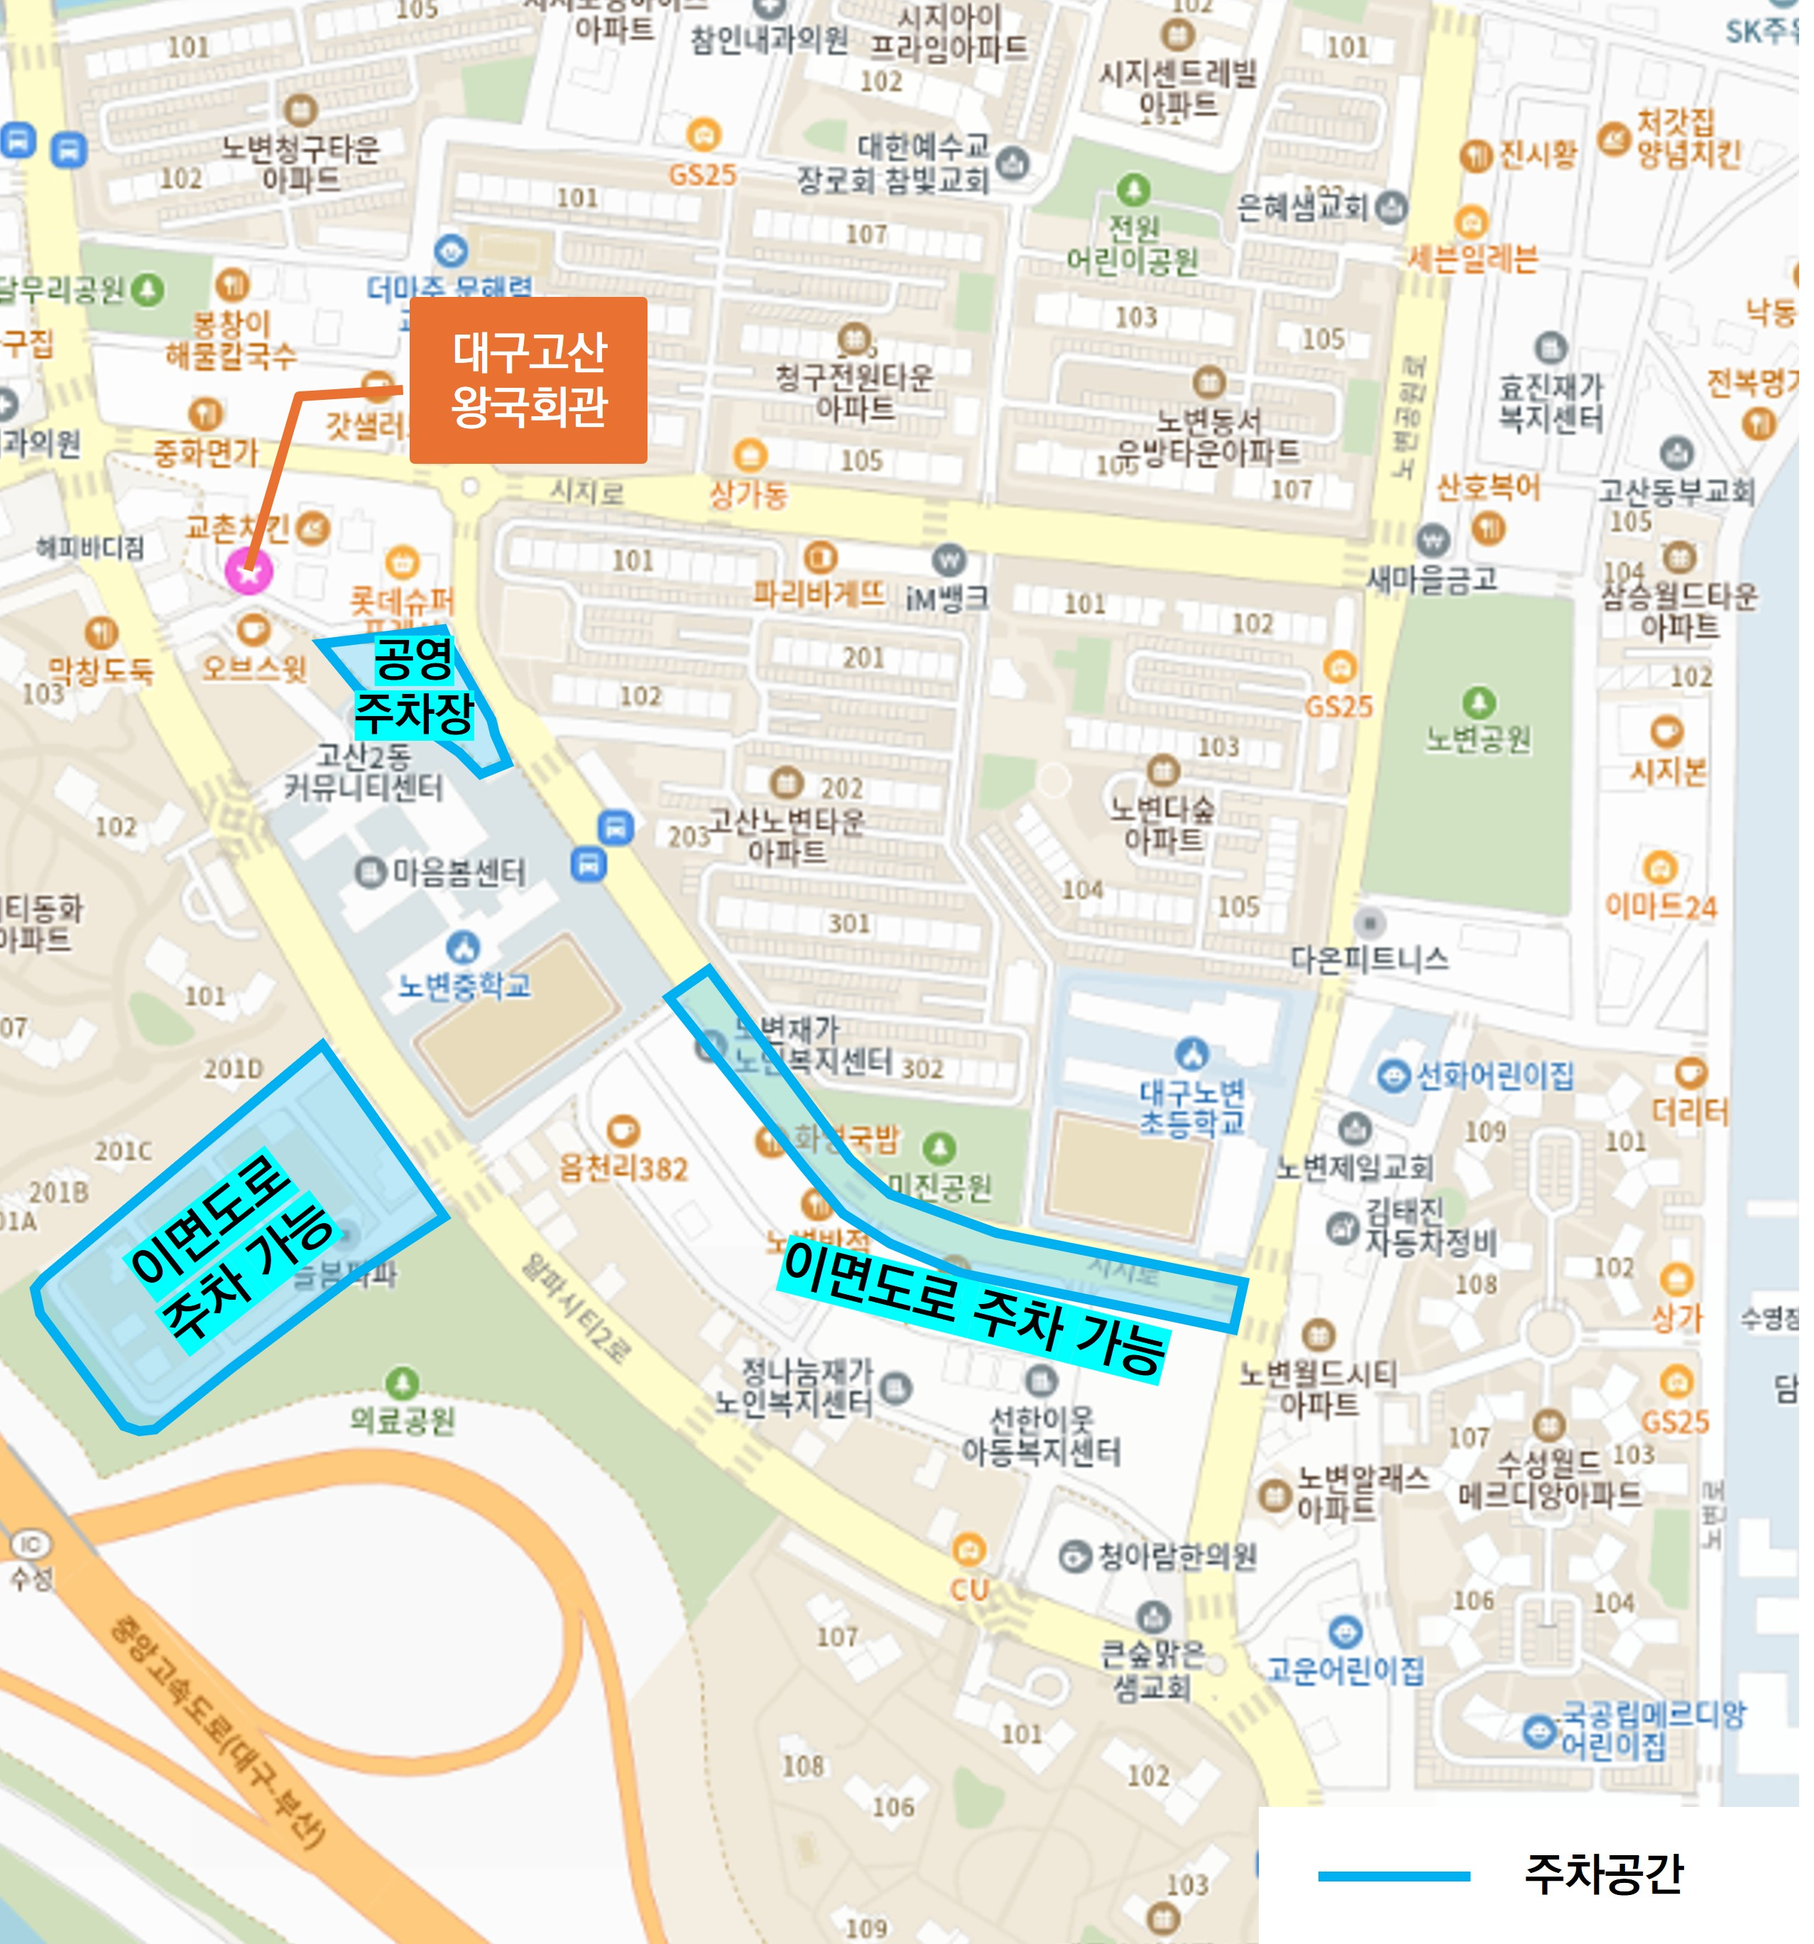
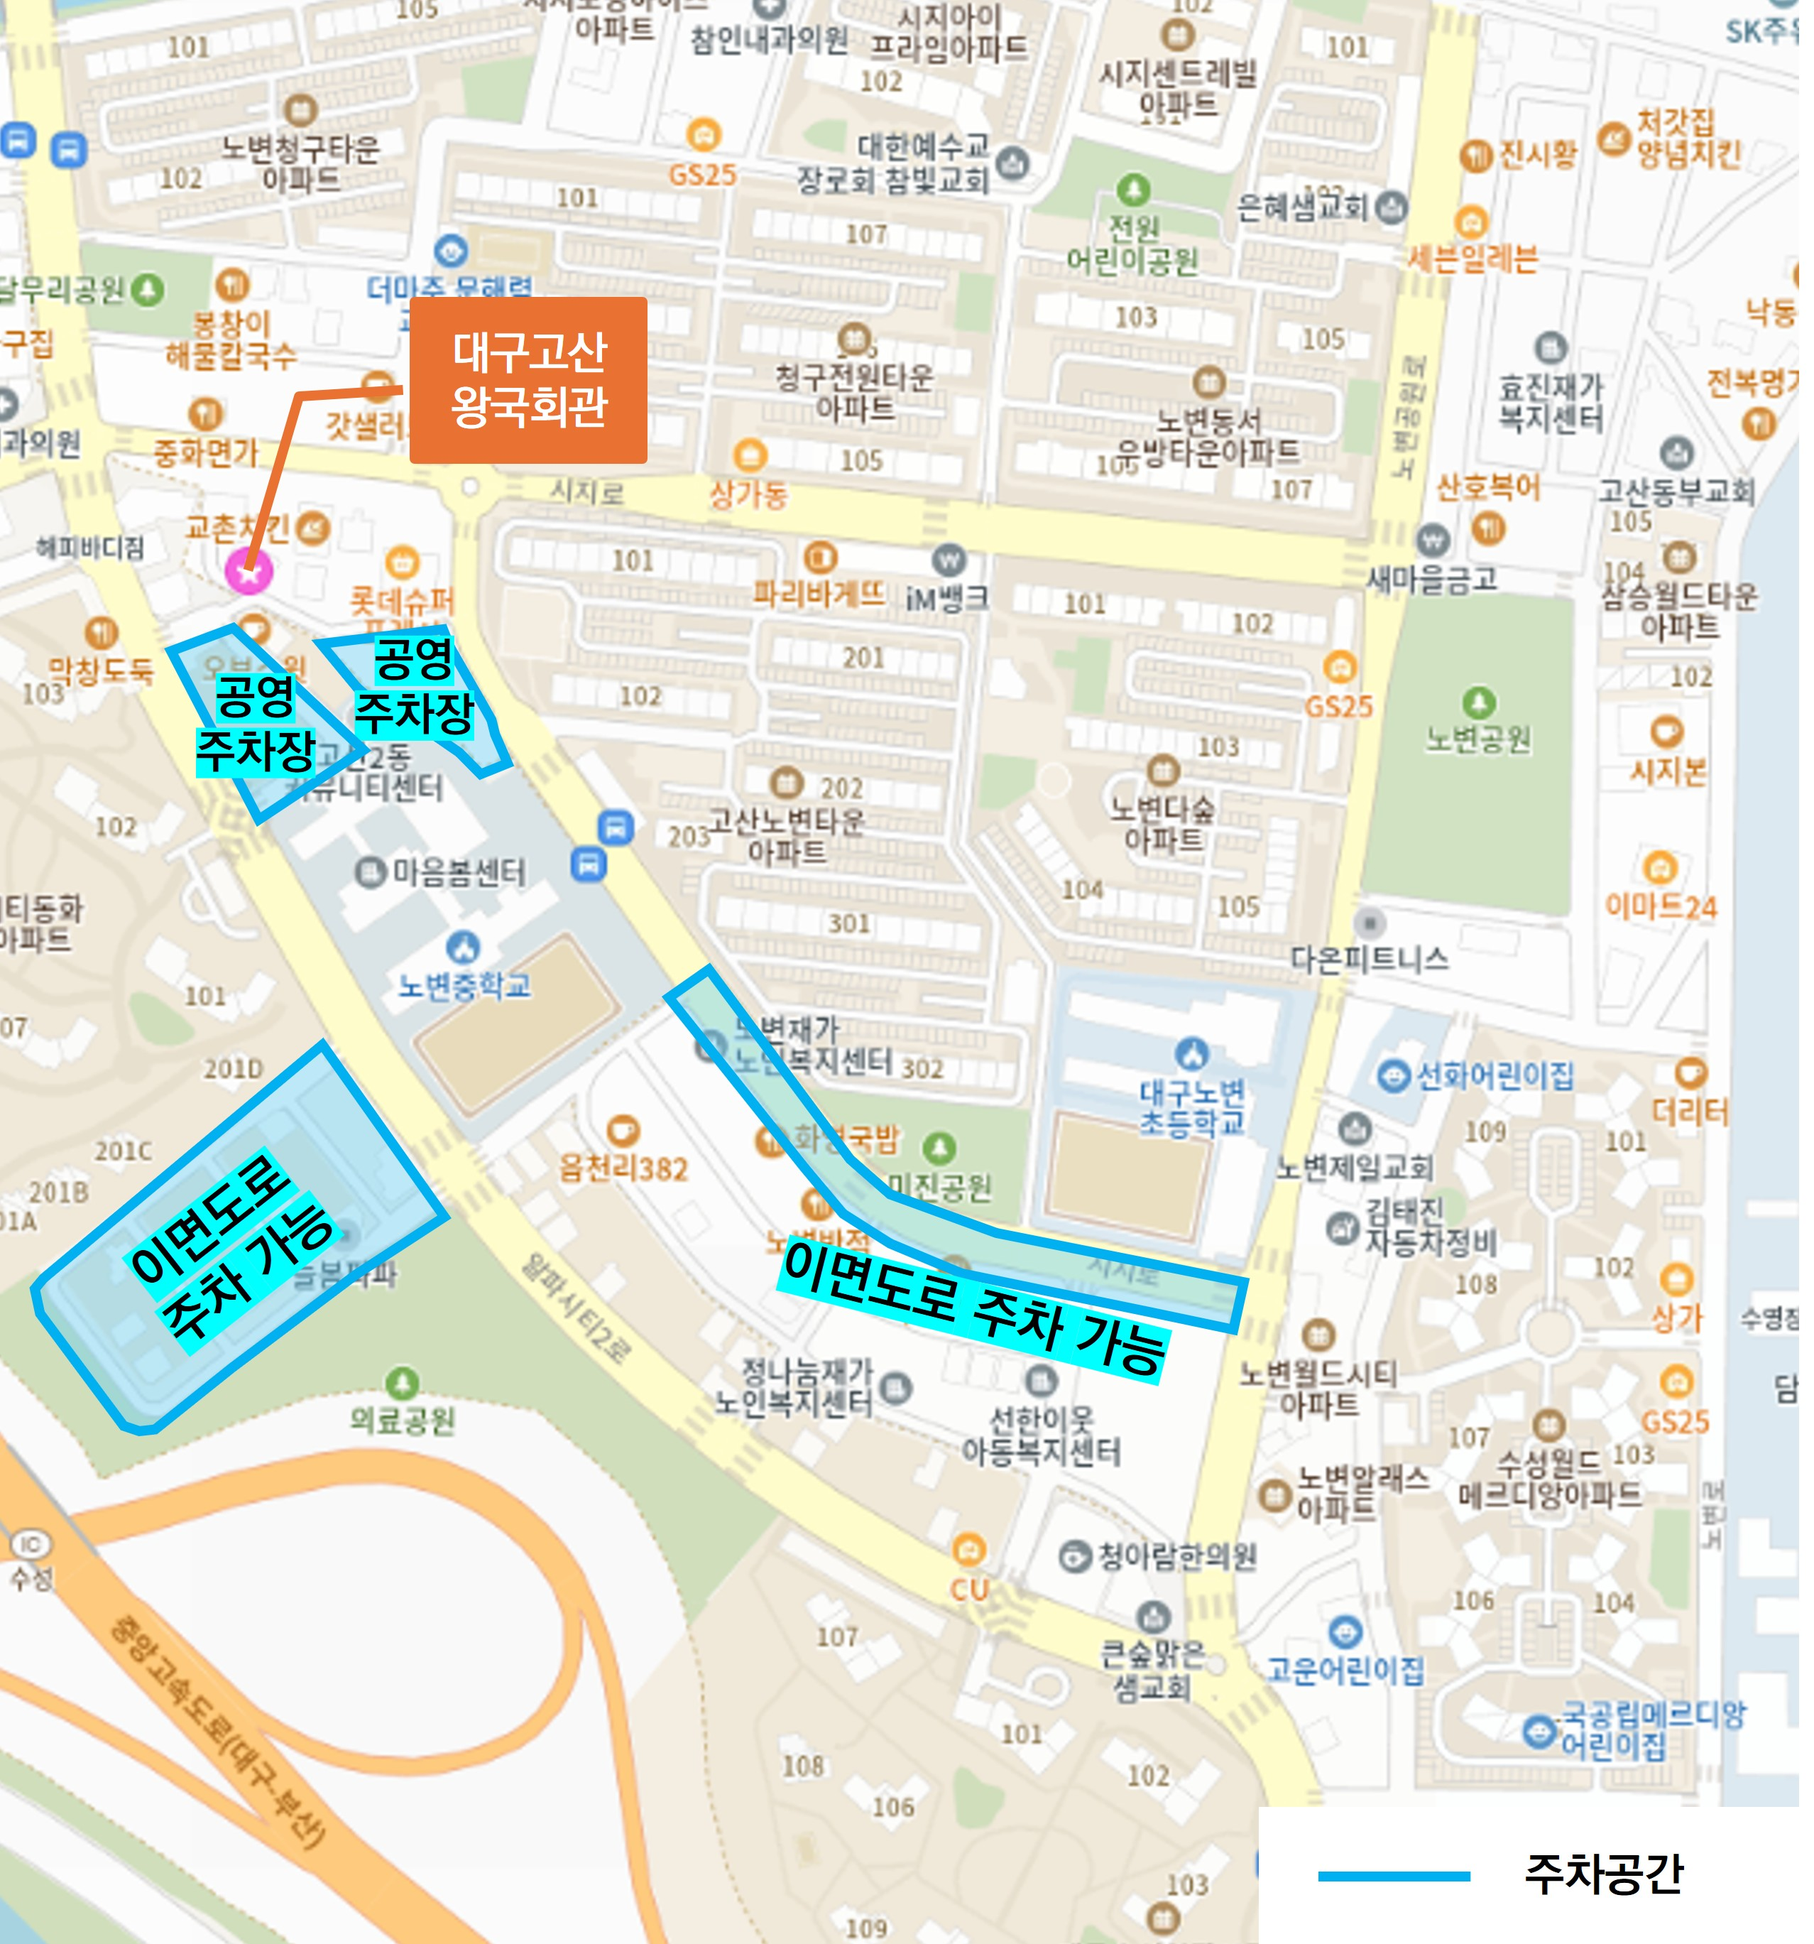
계좌

Changed region(s): [[0.0928, 0.3106, 0.2164, 0.4348]]

diff --git a/wedding-invitation/my-wedding_Z/index.html b/wedding-invitation/my-wedding_Z/index.html
@@ -127,12 +127,6 @@ section{padding:86px 22px;position:relative;text-align:center}
 .zoom-btn:active{opacity:0.7}
 .zoom-btn i{margin-right:6px;font-size:16px;}
 
-/* accounts */
-.account-card{background:#fff;border:1px solid var(--line);padding:4px 18px}
-.account-group{border-bottom:1px solid var(--line)}.account-group:last-child{border-bottom:0}.account-title{display:flex;align-items:center;justify-content:space-between;padding:18px 0;cursor:pointer;font-size:12px;font-weight:600}.account-content{display:none;padding:0 0 12px}.account-content.open{display:block}.account-item{display:grid;grid-template-columns:1fr auto;gap:8px;align-items:center;background:var(--paper);padding:13px;margin-bottom:7px;font-size:10px}.account-person{font-weight:600;margin-right:7px}.account-number{color:#6c6760}.btn-acc{border:1px solid #d7d0c8;background:#fff;padding:8px 9px;font-size:9px;cursor:pointer}
-.account-phone {font-size:10px; color:#888; margin-top:4px;}
-.account-phone a {text-decoration:none; color:inherit; display:flex; align-items:center; gap:4px;}
-
 /* RSVP */
 #rsvp { background: #f8d8d8; padding-bottom: 115px; color: #5e4a4a; }
 #rsvp .section-kicker { color: #d89898; }
@@ -290,84 +284,6 @@ section{padding:86px 22px;position:relative;text-align:center}
             <div class="gallery-item"><img src="./img/21.jpg" alt="웨딩 사진 21"></div>
         </div>
     </section>
-<!-- 
-    예식장 Section (수정: 대중교통 정보 바로 배치)
-    <section class="reveal" id="location">
-        <div class="section-kicker">Ceremony</div>
-        <h2 class="section-title">Location</h2>
-        <div class="location-lead">
-            <div class="location-name">대구고산 왕국회관</div>
-            <div class="location-time">예식 13:30</div>
-            <div class="location-address">대구광역시 수성구 시지로 50-5</div>
-        </div>
-
-        <div class="map-shell reveal">
-            <div id="map" class="map"></div>
-            <div class="map-message" id="map-message">카카오 지도를 불러오는 중입니다.</div>
-            <div class="map-error" id="map-error"></div>
-        </div>
-        <div class="nav-buttons">
-            <a href="https://map.kakao.com/link/search/대구광역시 수성구 시지로 50-5" target="_blank" rel="noopener" class="map-kakao">카카오맵</a>
-            <a href="https://map.naver.com/v5/search/대구광역시 수성구 시지로 50-5" target="_blank" rel="noopener" class="map-naver">네이버지도</a>
-            <a href="tmap://search?name=대구광역시 수성구 시지로 50-5" class="map-tmap">티맵</a>
-        </div>
-        <button class="copy-btn" type="button" onclick="copyText('대구광역시 수성구 시지로 50-5')">주소 복사하기</button>
-
-        <div class="info-stack stagger visible">
-            <div class="info-card">
-                <div class="info-label">PUBLIC TRANSPORT</div>
-                <div class="info-title">대중교통</div>
-                <div class="info-text">지하철 2호선 신매역 2번 출구 · 도보 약 9분<br>고산2동행정복지센터 정류장 하차 · 도보 약 9분<br>100, 100-1, 309, 349, 399, 509, 724, 937, 990, 수성2, 급행10</div>
-            </div>
-        </div>
-    </section> -->
-
-    <!-- 연회장 Section (새로 추가)
-    <section class="reveal" id="reception">
-        <div class="section-kicker">Reception</div>
-        <h2 class="section-title">Dining <em>Hall</em></h2>
-        
-        <div class="info-stack stagger visible" style="margin-top:0; margin-bottom: 22px;">
-            <div class="info-card info-highlight">
-                <div class="info-label">RECEPTION / 식사</div>
-                <div class="info-title">채담은</div>
-                <div class="info-text">
-                    <span class="time-strong">11:30 ~ 13:30</span><br>
-                    대구 수성구 노변로 75-4<br>
-                    <b>※ 식당 이용시간이 예식장과 다르니 꼭 확인해주세요.</b><br>
-                    <span style="color:#8e625e">※ 축의대는 식당에 비치될 예정입니다.</span>
-                </div>
-            </div>
-        </div>
-
-        <div class="map-shell reveal">
-            <div id="map-restaurant" class="map"></div>
-            <div class="map-message" id="map-message-rest">카카오 지도를 불러오는 중입니다.</div>
-            <div class="map-error" id="map-error-rest"></div>
-        </div>
-        <div class="nav-buttons">
-            <a href="https://map.kakao.com/link/search/대구 수성구 노변로 75-4" target="_blank" rel="noopener" class="map-kakao">카카오맵</a>
-            <a href="https://map.naver.com/v5/search/대구 수성구 노변로 75-4" target="_blank" rel="noopener" class="map-naver">네이버지도</a>
-            <a href="tmap://search?name=대구 수성구 노변로 75-4" class="map-tmap">티맵</a>
-        </div>
-        <button class="copy-btn" type="button" onclick="copyText('대구 수성구 노변로 75-4')">주소 복사하기</button>
-    </section> -->
-
-    <!-- <section class="soft reveal" id="parking">
-        <div class="section-kicker">Parking</div>
-        <h2 class="section-title">Parking <em>Guide</em></h2>
-        <div class="info-card" style="text-align:left;padding:0;overflow:hidden">
-            <img class="parking-map" src="./img/parking-map.jpg" alt="주차 약도" onerror="this.style.display='none';this.nextElementSibling.style.display='flex'">
-            <div class="parking-placeholder" style="display:none">주차 약도 이미지를<br><b>./img/parking-map.jpg</b> 이름으로 넣어주세요.</div>
-            <div style="padding:18px 18px 6px">
-                <div class="info-label">PARKING INFORMATION</div>
-                <ul class="parking-list">
-                    <li><b>주차 위치</b> · 고산2동 커뮤니티센터 인근, 노변중학교/늘봄파파 인근, 아진공원 인근 등 약도를 참조해 주세요.</li>
-                    <li><b>TIP</b> · 예식장과 식당의 주차 위치가 다르다면 각각 구분해서 표시하는 것을 추천합니다.</li>
-                </ul>
-            </div>
-        </div>
-    </section> -->
 
     <!-- 줌(Zoom) 생중계 Section 추가 -->
     <section class="reveal" id="zoom">
@@ -390,93 +306,6 @@ section{padding:86px 22px;position:relative;text-align:center}
         </div>
     </section>
 
-    <!-- 계좌번호 Section (수정: 3명씩 각각 계좌 및 연락처 추가) -->
-    <section class="reveal" id="account">
-        <div class="section-kicker">With Love</div>
-        <h2 class="section-title">For Your <em>Heart</em></h2>
-        <div class="account-card">
-            <!-- 신랑측 계좌 -->
-            <div class="account-group">
-                <div class="account-title" onclick="toggleAccount('groom-acc',this)">신랑측 마음 전하실 곳 <i class="ri-add-line"></i></div>
-                <div class="account-content" id="groom-acc">
-                    <div class="account-item">
-                        <div>
-                            <span class="account-person">신랑 아버지 김재룡</span>
-                            <span class="account-number">은행명 000-0000-0000</span>
-                            <div class="account-phone"><a href="tel:010-0000-0000"><i class="ri-phone-line"></i> 010-0000-0000</a></div>
-                        </div>
-                        <button class="btn-acc" onclick="copyText('00000000000')">복사</button>
-                    </div>
-                    
-                    <div class="account-item">
-                        <div>
-                            <span class="account-person">신랑 김유락</span>
-                            <span class="account-number">농협 123-4567-8901</span>
-                            <div class="account-phone"><a href="tel:010-0000-0000"><i class="ri-phone-line"></i> 010-0000-0000</a></div>
-                        </div>
-                        <button class="btn-acc" onclick="copyText('12345678901')">복사</button>
-                    </div>
-                </div>
-            </div>
-            <!-- 신부측 계좌 -->
-            <div class="account-group">
-                <div class="account-title" onclick="toggleAccount('bride-acc',this)">신부측 마음 전하실 곳 <i class="ri-add-line"></i></div>
-                <div class="account-content" id="bride-acc">
-                    <div class="account-item">
-                        <div>
-                            <span class="account-person">신부 아버지 김성환</span>
-                            <span class="account-number">국민 010-3006-4259</span>
-                            <div class="account-phone"><a href="tel:010-3006-4259"><i class="ri-phone-line"></i> 010-3006-4259</a></div>
-                        </div>
-                        <button class="btn-acc" onclick="copyText('010-3006-4259')">복사</button>
-                    </div>
-                    <div class="account-item">
-                        
-                    <div class="account-item">
-                        <div>
-                            <span class="account-person">신부 김해빈</span>
-                            <span class="account-number">토스 1000-3364-5616</span>
-                            <div class="account-phone"><a href="tel:010-3386-4259"><i class="ri-phone-line"></i> 010-3386-4259</a></div>
-                        </div>
-                        <button class="btn-acc" onclick="copyText('1000-3364-5616')">복사</button>
-                    </div>
-                </div>
-            </div>
-        </div>
-    </section>
-
-    <!-- <section class="rsvp-section reveal" id="rsvp">
-        <div class="section-kicker">Please Reply</div>
-        <h2 class="section-title">R.S.V.P</h2>
-        <div class="rsvp-box">
-            <div class="rsvp-title">참석 의사를 알려주세요.</div>
-            <p>원활한 예식과 식사 준비를 위해<br>참석 여부를 미리 알려주시면 감사하겠습니다.</p>
-            <form class="rsvp-form" id="rsvpForm" onsubmit="submitRSVP(event)">
-                <input type="text" id="rsvp-name" name="name" placeholder="성함" autocomplete="name" required>
-                <div class="row">
-                    <select id="rsvp-side" name="side" required>
-                        <option value="" disabled selected>어느 쪽 하객인가요?</option>
-                        <option value="신랑측">신랑측</option>
-                        <option value="신부측">신부측</option>
-                    </select>
-                    <select id="rsvp-attend" name="attend" required>
-                        <option value="" disabled selected>참석 여부</option>
-                        <option value="참석">참석</option>
-                        <option value="불참">불참</option>
-                    </select>
-                </div>
-                <select id="rsvp-meal" name="meal" required>
-                    <option value="" disabled selected>식사 여부</option>
-                    <option value="식사 예정">식사 예정</option>
-                    <option value="식사하지 않음">식사하지 않음</option>
-                </select>
-                <input type="number" id="rsvp-guests" name="guests" min="0" max="10" value="1" placeholder="식사 포함 인원">
-                <input type="tel" id="rsvp-phone" name="phone" placeholder="연락처 (선택)" autocomplete="tel">
-                <button class="rsvp-submit" id="rsvp-submit" type="submit">참석 의사 전달하기</button>
-                <div class="rsvp-status" id="rsvp-status"></div>
-            </form>
-        </div>
-    </section> -->
 
     <div class="banner-wrap reveal">
         <img class="banner" src="./img/img2.JPG" alt="웨딩 이미지 2">
@@ -633,15 +462,6 @@ function initKakaoMap(){
 
 function handleKakaoLoadError(){showMapError('카카오 지도 SDK를 불러오지 못했습니다.<br><br><b>💡 혹시 로컬 PC 환경(file://)이신가요?</b><br>카카오 정책상 서버(tozz.kr)에 업로드해야 지도가 보입니다.');}
 function showMapError(msg){const error=document.getElementById('map-error');if(error){error.innerHTML=msg;error.classList.add('show');}document.getElementById('map-message').style.display='none';}
-
-function copyText(text){
-    navigator.clipboard?.writeText(text).then(()=>alert('복사되었습니다.')).catch(()=>{const t=document.createElement('textarea');t.value=text;document.body.appendChild(t);t.select();document.execCommand('copy');t.remove();alert('복사되었습니다.');});
-}
-
-function toggleAccount(id,btn){
-    const content=document.getElementById(id), open=content.classList.toggle('open');
-    btn.querySelector('i').className=open?'ri-subtract-line':'ri-add-line';
-}
 
 async function submitRSVP(e){
     e.preventDefault();
